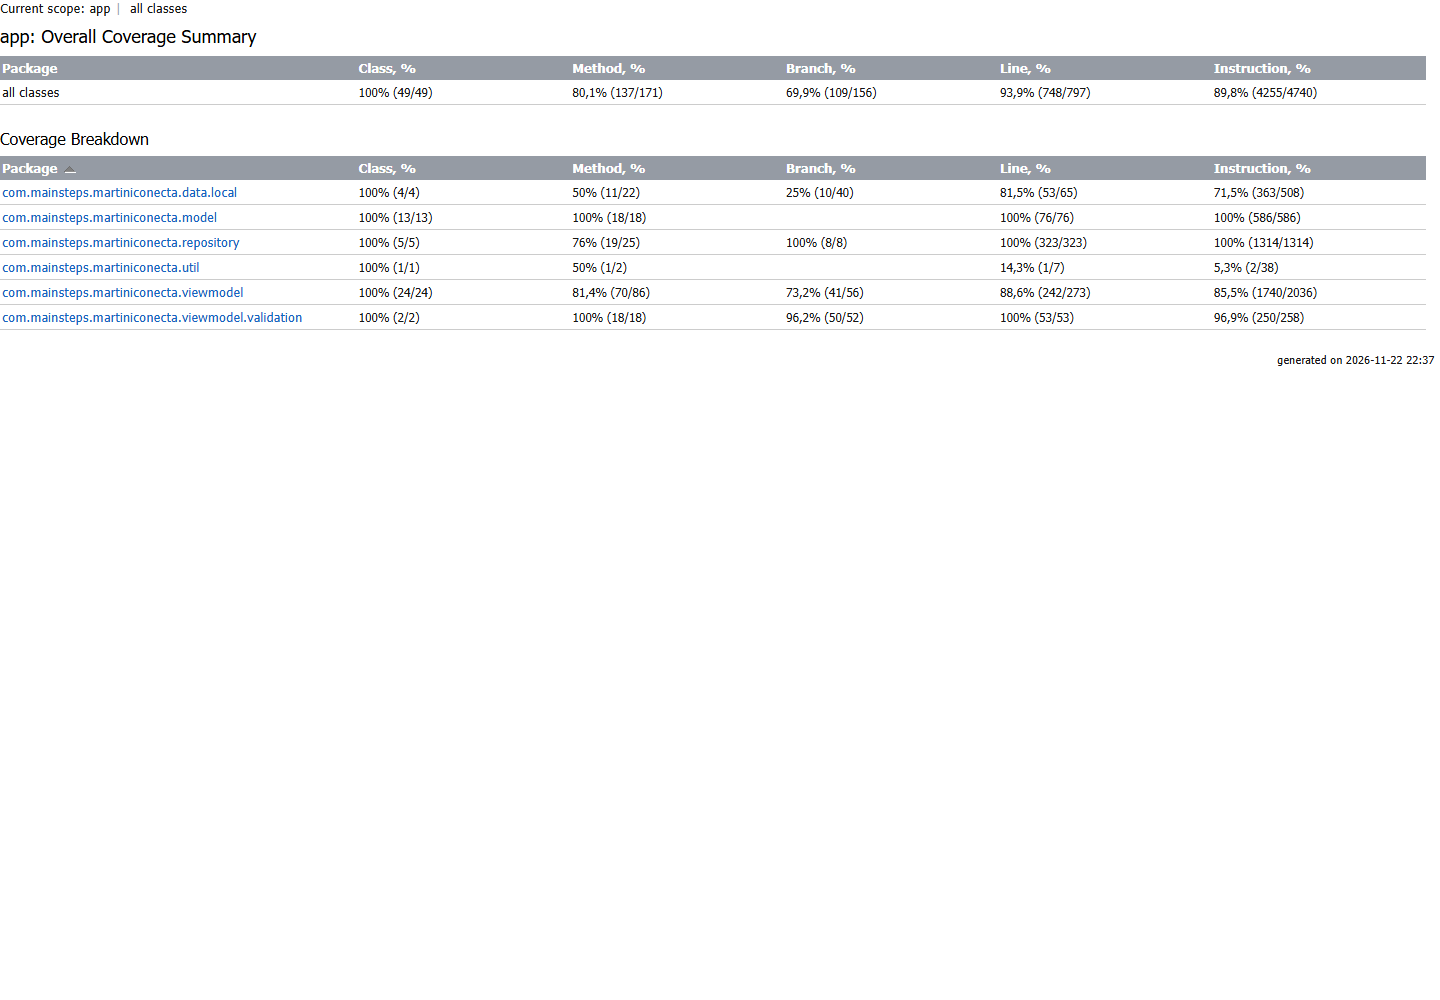
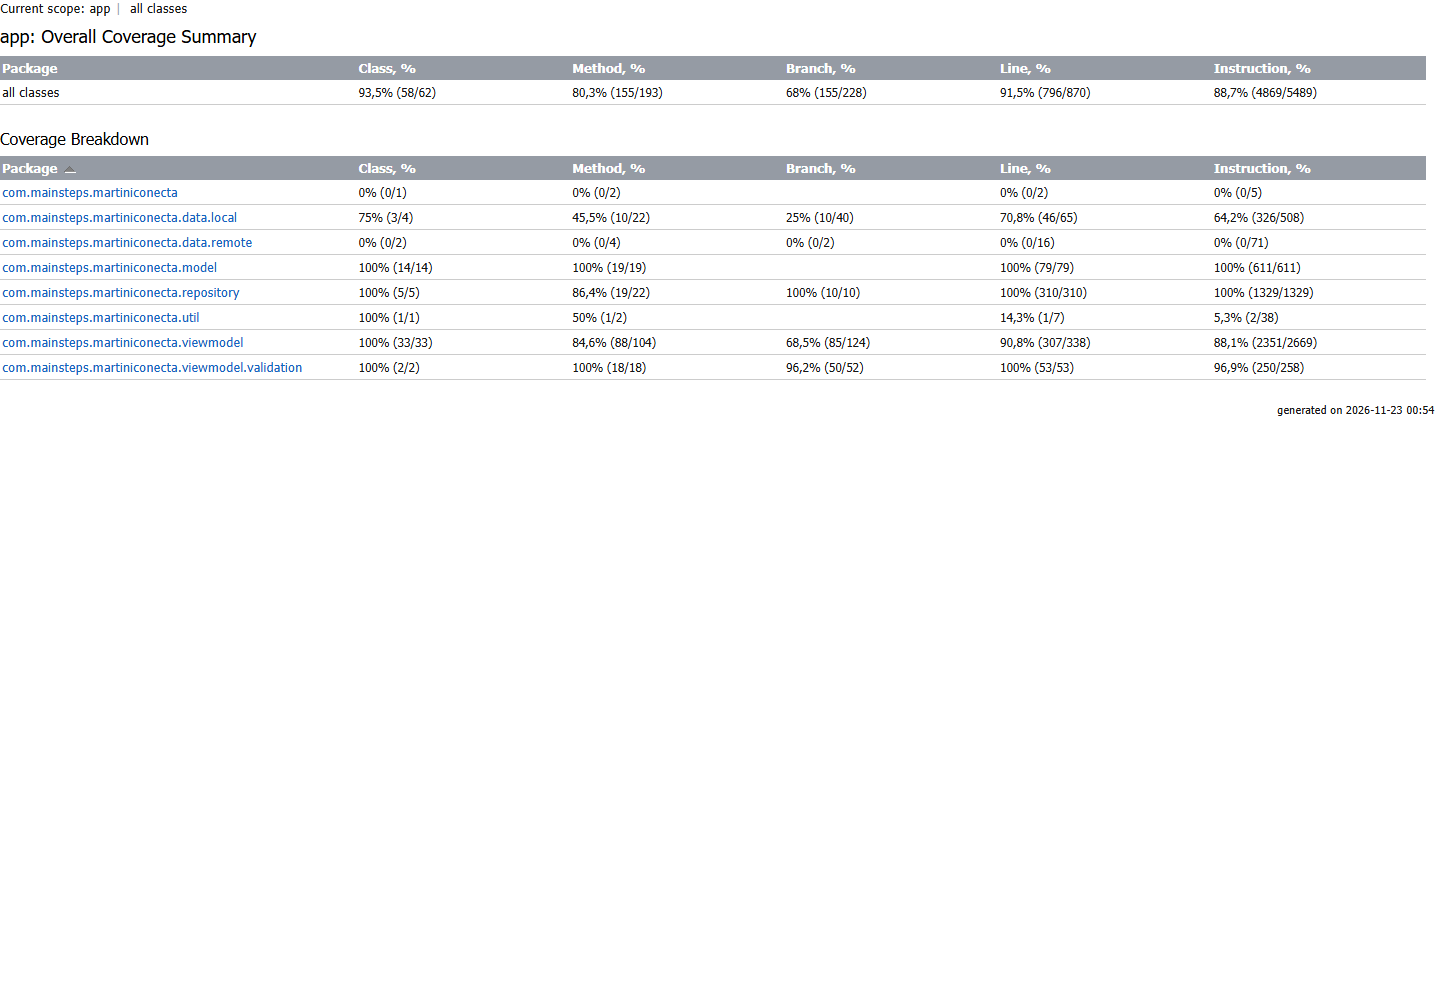
docs: actualizar cobertura final con CRUD integrado (#53)

diff --git a/README.md b/README.md
@@ -94,10 +94,18 @@ Este repositorio corresponde a un prototipo académico basado en un desafío emp
 
 ## Microservicio `martini-api`
 
-El microservicio Spring Boot del equipo está en [MainSteps/martini-api](https://github.com/MainSteps/martini-api). La conexión de la app se integra mediante las PR #55 y #56; esta rama incorpora la medición de cobertura sobre `main`. Clona el repositorio de la API y, desde su carpeta, inicia el servicio con JDK 17 o superior:
+El microservicio Spring Boot del equipo está en [MainSteps/martini-api](https://github.com/MainSteps/martini-api). La app permite crear, consultar, editar y eliminar solicitudes mediante Retrofit. Clona el repositorio de la API y, desde su carpeta, inicia el servicio con JDK 17 o superior.
+
+Windows:
 
 ```powershell
 .\mvnw.cmd spring-boot:run
+```
+
+macOS/Linux:
+
+```bash
+./mvnw spring-boot:run
 ```
 
 En el PC, la API responde en `http://localhost:8080/`. La integración de Android usa `http://10.0.2.2:8080/` para llegar desde el emulador al puerto `8080` del equipo. Si ejecutas la API en un entorno remoto de VS Code, reenvía su puerto 8080 al PC antes de iniciar la app. Para un dispositivo conectado por ADB, puedes ejecutar el siguiente comando y configurar la URL del cliente como `http://localhost:8080/`:
@@ -109,7 +117,7 @@ adb reverse tcp:8080 tcp:8080
 | Método | Ruta | Uso |
 | --- | --- | --- |
 | `GET` | `/api/solicitudes` | Listar solicitudes |
-| `GET` | `/api/solicitudes?telefono=...` | Filtrar por teléfono; requiere integrar `martini-api#1` |
+| `GET` | `/api/solicitudes?telefono=...` | Filtrar por el teléfono del perfil |
 | `POST` | `/api/solicitudes` | Crear una solicitud |
 | `GET` | `/api/solicitudes/{id}` | Obtener una solicitud |
 | `PUT` | `/api/solicitudes/{id}` | Actualizar una solicitud |
@@ -132,7 +140,9 @@ Ejemplo de respuesta:
 
 ## Tests y cobertura
 
-Ejecuta las pruebas unitarias y genera el reporte HTML de Kover:
+Ejecuta las pruebas unitarias, genera los reportes de Kover y verifica el umbral de cobertura.
+
+Windows:
 
 ```powershell
 .\gradlew.bat testDebugUnitTest
@@ -140,7 +150,15 @@ Ejecuta las pruebas unitarias y genera el reporte HTML de Kover:
 .\gradlew.bat koverXmlReportDebug koverVerifyDebug assembleDebug
 ```
 
-El reporte HTML se genera en `app/build/reports/kover/htmlDebug/index.html` y el XML en `app/build/reports/kover/reportDebug.xml`. La medición del 22/11/2026 sobre `main` (`ed97726`) más los cambios de #53 obtuvo **748 de 797 líneas: 93,85%**, con **41 tests aprobados**, sin fallos ni omitidos. `koverVerifyDebug` exige al menos 80% de cobertura de líneas y pasó junto con `assembleDebug`.
+macOS/Linux:
+
+```bash
+./gradlew testDebugUnitTest
+./gradlew koverHtmlReportDebug
+./gradlew koverXmlReportDebug koverVerifyDebug assembleDebug
+```
+
+El reporte HTML se genera en `app/build/reports/kover/htmlDebug/index.html` y el XML en `app/build/reports/kover/reportDebug.xml`. La medición del 23/11/2026 sobre `main` (`d46a5ba`, con el CRUD completo) más los cambios de #53 obtuvo **796 de 870 líneas: 91,49%**, con **61 tests aprobados**, sin fallos, errores ni omitidos. `koverVerifyDebug` exige al menos 80% de cobertura de líneas y pasó junto con `assembleDebug`.
 
 Kover excluye pantallas, componentes y tema Compose, navegación, `MainActivity`, configuración de Room y sus implementaciones generadas, y factories de ViewModel. Son presentación, infraestructura Android o código generado; las pruebas unitarias miden la lógica de ViewModels, repositorios y validadores. También se excluye `ContactoVentasKt`, que prepara intents Android para abrir aplicaciones externas. Esta medición no acredita pruebas de interfaz ni recorridos en emulador.
 
@@ -148,4 +166,4 @@ Los tests usan JUnit y `kotlinx-coroutines-test`, con dependencias falsas que pe
 
 ![Reporte de cobertura Kover Debug](docs/evidencias/cobertura-kover-debug.png)
 
-La cobertura debe volver a medirse tras integrar #50 y #51, porque añaden lógica de solicitudes. El porcentaje anterior corresponde a la base actual; no incluye esas funcionalidades todavía.
+La medición incluye el CRUD de solicitudes de #50 y #51 integrado en `main`, con pruebas de recarga, validación de comuna, cancelación, errores de PUT/DELETE y reintento. El recorrido real con la API está documentado en [las evidencias de #51](docs/evidencias/51-recorrido.md).
